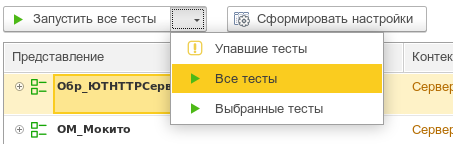
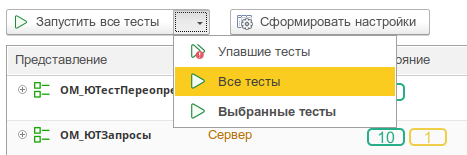
Обновлены иконки Актуализация скриншотов

diff --git a/README.md b/README.md
@@ -15,6 +15,8 @@
 
 ----
 
+![report](documentation/docs/images/report-ui.png)
+
 ## Документация
 
 [https://bia-technologies.github.io/yaxunit/](https://bia-technologies.github.io/yaxunit/)
@@ -29,7 +31,12 @@
 - [vanessa-automation](https://github.com/Pr-Mex/vanessa-automation/graphs/contributors)
 - [add](https://github.com/vanessa-opensource/add/graphs/contributors)
 
----
+----
+
+## Использованные ресурсы
+
+- В продукте используется иконки из набора [IntelliJ Platform UI](https://jetbrains.design/intellij).  
+  Copyright 2000-2023 JetBrains s.r.o. and contributors. [Apache 2.0 license](http://www.apache.org/licenses/LICENSE-2.0.html)
 
 ## Лицензия
 
